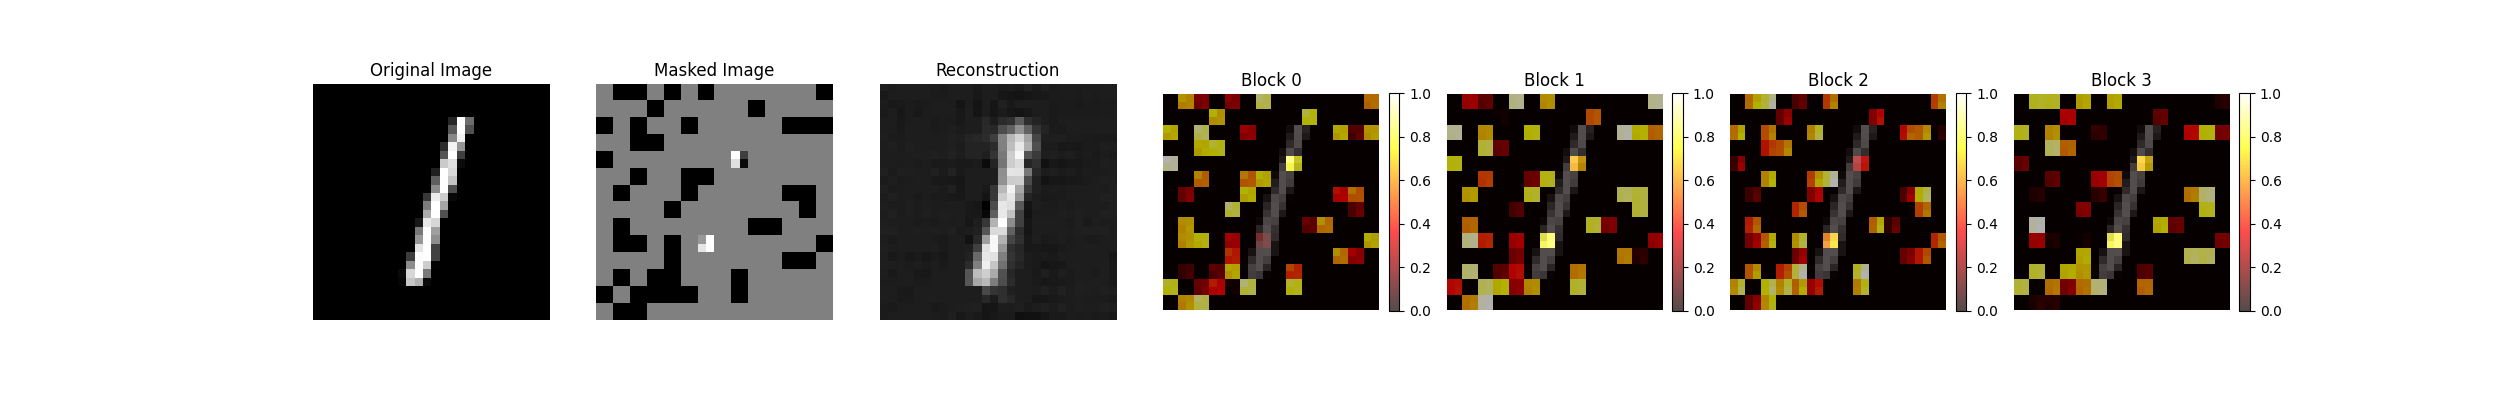
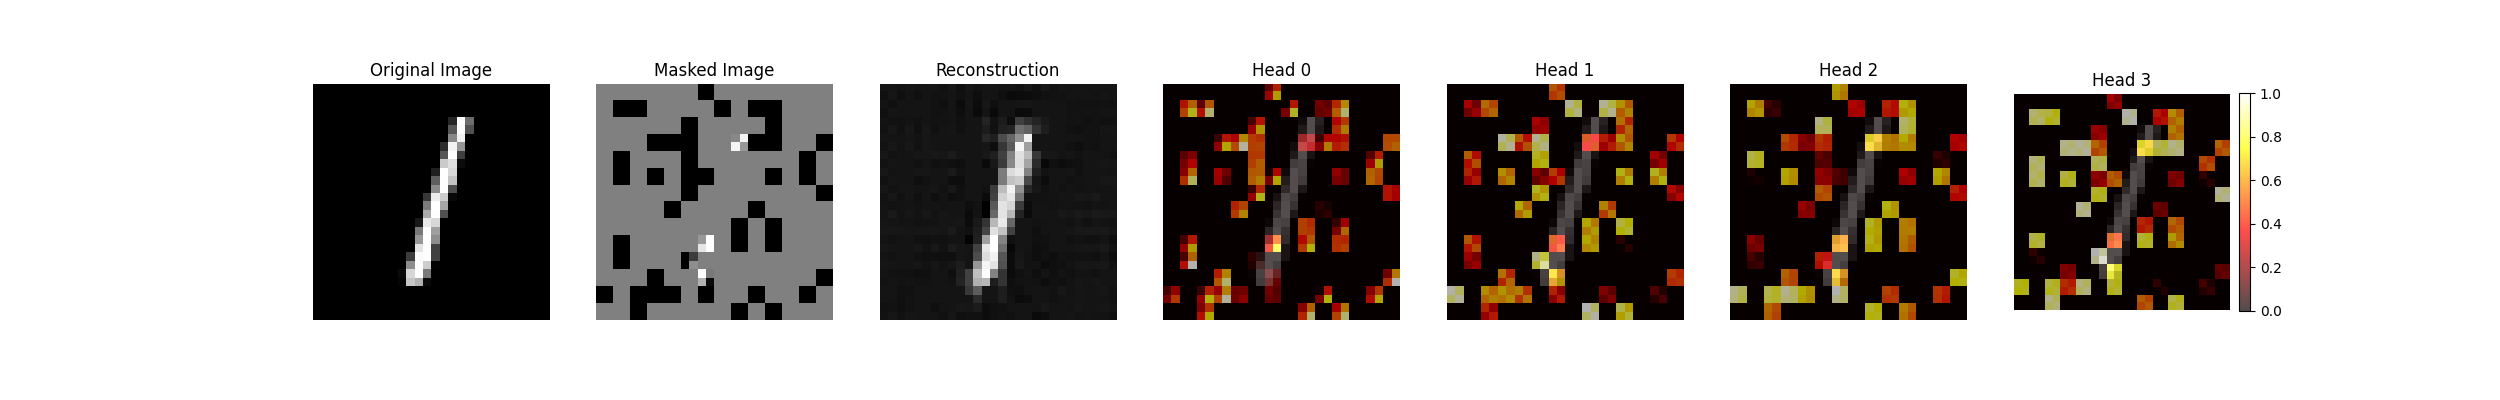
better images

diff --git a/mnist_mae_vit/mae_attention_maps.py b/mnist_mae_vit/mae_attention_maps.py
@@ -116,7 +116,7 @@ def visualize_attention_heatmaps(mae_model, dataloader, device, img_size, patch_
                 ax[idx].set_title(f"Head {idx-3}")
                 ax[idx].axis("off")
                 
-                cbar = fig.colorbar(attention_heatmap, ax=ax[idx], orientation="vertical", fraction=0.046, pad=0.04)
+            cbar = fig.colorbar(attention_heatmap, ax=ax[6], orientation="vertical", fraction=0.046, pad=0.04)
             # cbar.set_label("Attention Intensity", rotation=270, labelpad=15)
             plt.savefig(f"./final graphics/mae_map_head_test_{i}.png")
             plt.show()
